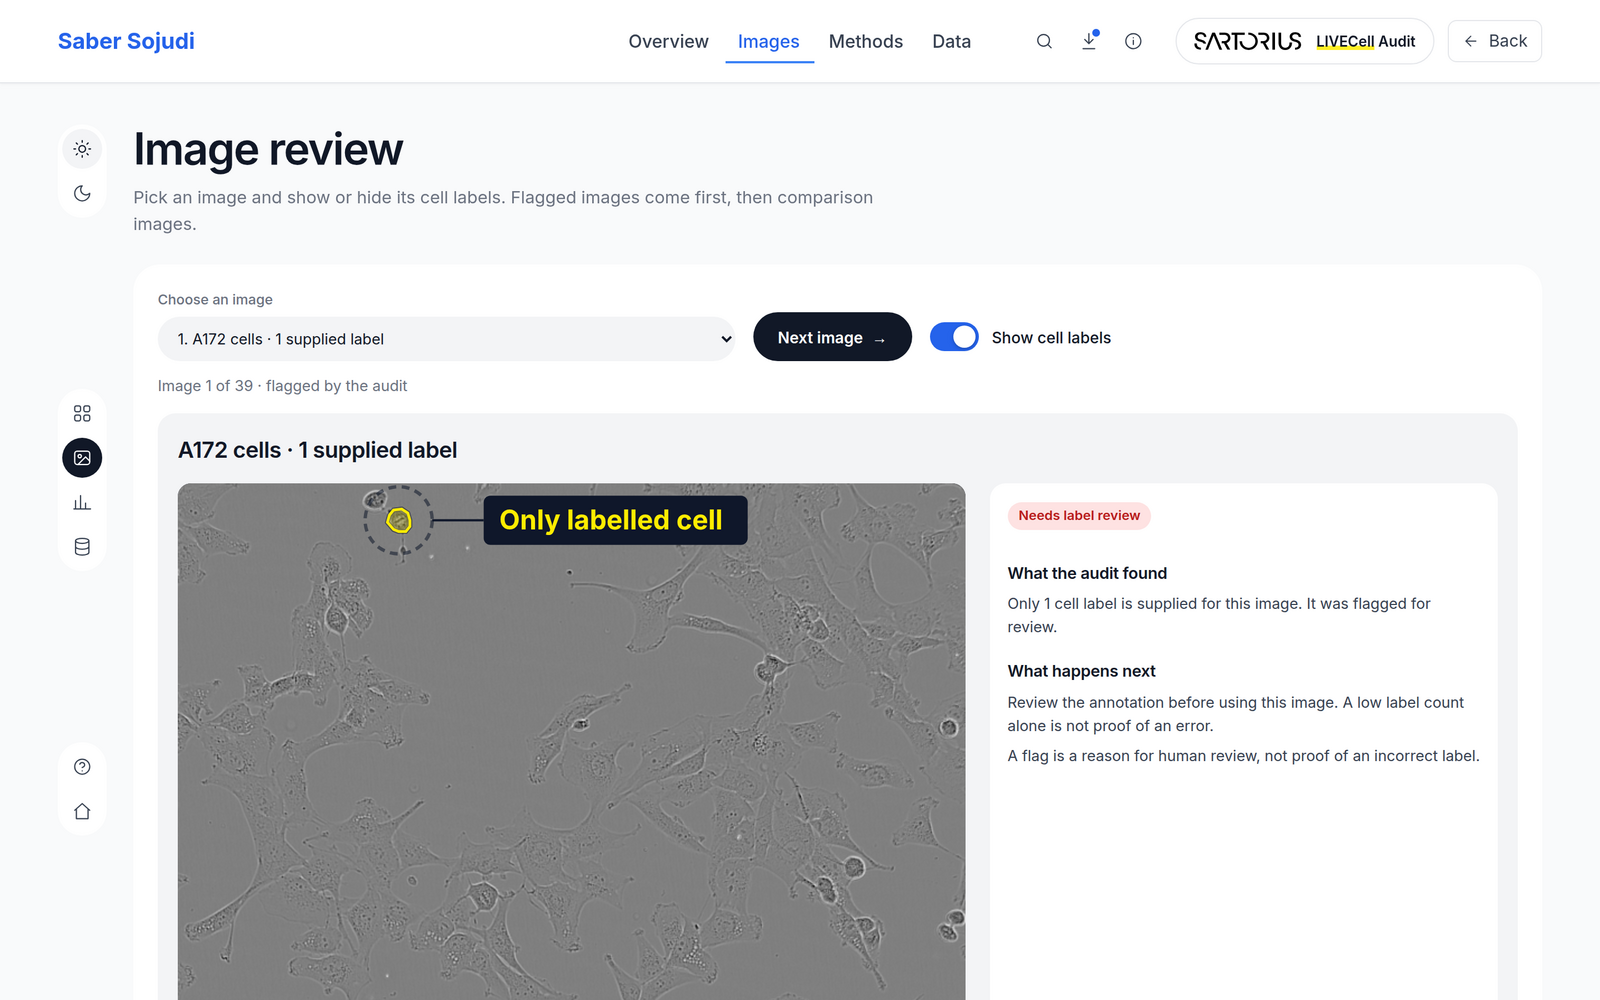
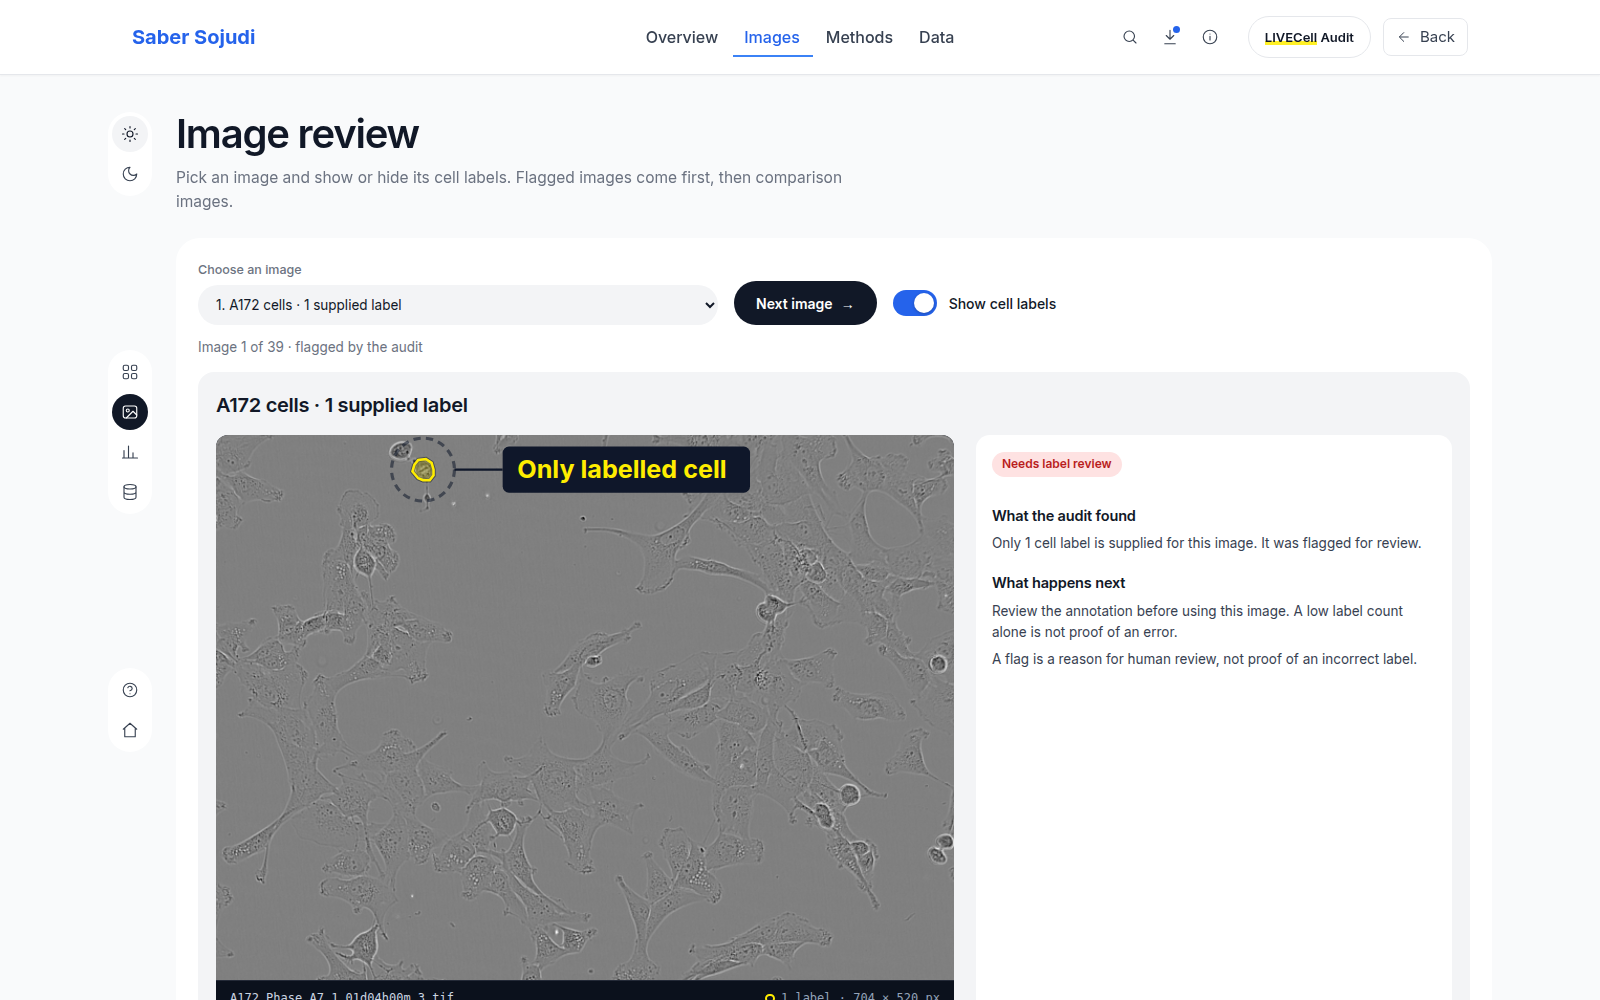
Present the project as an independent dataset audit
Remove the company logo from the dashboard header and its notice, refer
to LIVECell as a public dataset rather than a company's, drop the job
posting references from DESIGN.md, and retake the README screenshots.
Dataset attribution, the CC BY-NC notice and the upstream credits stay.

diff --git a/web/review/assets/review.css b/web/review/assets/review.css
@@ -1,6 +1,6 @@
 /* LIVECell review website — a pill dashboard in the colours of sabersojudi.com.
    Tokens and rules follow DESIGN.md. Blue (--accent, the portfolio's blue-600)
-   marks exactly one hero tile per section and small interface state; Sartorius
+   marks exactly one hero tile per section and small interface state; label
    yellow (--label) is reserved for supplied cell labels and their legend. */
 
 @font-face {
@@ -54,7 +54,7 @@
   --success-soft: #dcfce7;
   --danger: #b91c1c;
   --danger-soft: #fee2e2;
-  /* Sartorius yellow: supplied cell labels only */
+  /* label yellow: supplied cell labels only */
   --label: #ffed00;
   /* the microscope stage stays dark in both themes */
   --stage: #0b111c;
@@ -186,9 +186,6 @@ main { min-width: 0; }
 /* --- pills -------------------------------------------------------------- */
 .pill { background: var(--bg-card); border-radius: var(--r-pill); height: var(--topbar-h); display: flex; align-items: center; }
 .logo { padding: 8px 16px; gap: 14px; width: max-content; height: 42px; font-weight: 600; font-size: 13px; color: var(--ink); text-decoration: none; border: 1px solid var(--hairline); }
-.company-logo { display: block; width: 96px; height: auto; flex: none; }
-/* Keep the company logo on its approved white background in either appearance. */
-:root[data-theme="dark"] .logo { background: #fff; color: #111827; }
 .wordmark { white-space: nowrap; }
 .wordmark .highlight { box-shadow: inset 0 -0.3em 0 color-mix(in srgb, var(--label) 85%, transparent); }
 
@@ -623,7 +620,6 @@ dl.kv dd .unit { display: block; font-weight: 400; color: var(--ink-muted); font
   .grid { grid-template-columns: repeat(6, minmax(0, 1fr)); }
   .c4, .c5, .c6, .c7, .c8, .c12, .stack { grid-column: span 6; }
   .topbar-inner { grid-template-columns: auto minmax(0, 1fr) auto; gap: 16px; padding: 16px 24px; }
-  .logo .wordmark { display: none; }
   .nav { justify-self: center; max-width: 100%; min-width: 0; }
   .topbar .nav a { padding: 8px 10px; font-size: 15px; }
   .actions { display: none; }
@@ -638,7 +634,6 @@ dl.kv dd .unit { display: block; font-weight: 400; color: var(--ink-muted); font
   .portfolio-brand { font-size: 18px; }
   .topbar-right { gap: 8px; align-items: center; }
   .logo { padding: 8px 10px; height: 36px; }
-  .company-logo { width: 80px; }
   .portfolio-back { padding: 8px; }
   .portfolio-back span { display: none; }
   .topbar .nav { grid-row: 2; grid-column: 1 / -1; width: 100%; display: grid; grid-template-columns: repeat(4, minmax(0, 1fr)); }

diff --git a/web/review/index.html b/web/review/index.html
@@ -25,8 +25,7 @@
       <a class="icon-btn dot" href="#downloads" aria-label="Download the evidence" title="Downloads"><svg viewBox="0 0 24 24" aria-hidden="true"><path d="M12 3v12M7 10l5 5 5-5M5 21h14"/></svg></a>
       <a class="icon-btn" href="#technical" aria-label="Technical details and sources" title="Sources"><svg viewBox="0 0 24 24" aria-hidden="true"><circle cx="12" cy="12" r="9"/><path d="M12 8h.01M12 11v5"/></svg></a>
     </div>
-    <a href="#overview" class="pill logo" aria-label="Sartorius LIVECell Audit, overview" title="Independent project using Sartorius’ public LIVECell dataset">
-      <img class="company-logo" src="assets/sartorius-logo.svg" alt="Sartorius" width="96" height="20">
+    <a href="#overview" class="pill logo" aria-label="LIVECell Audit, overview" title="Independent project using the public LIVECell dataset">
       <span class="wordmark"><span class="highlight">LIVECell</span> Audit</span>
     </a>
     <a class="portfolio-back" href="https://sabersojudi.com/" title="Back to main page">
@@ -61,7 +60,7 @@
   <div class="page-head overview-intro" id="start">
     <div>
       <h1 class="reveal" id="page-title">Checking the data used to <span class="gradient-text">train AI</span></h1>
-      <p class="sub reveal">I built a Python tool that checks the images and cell labels in Sartorius’ public LIVECell dataset, then gives scientists a clear list of examples to review.</p>
+      <p class="sub reveal">I built a Python tool that checks the images and cell labels in the public LIVECell dataset, then gives scientists a clear list of examples to review.</p>
       <ul class="project-skills reveal" aria-label="Skills demonstrated in this project">
         <li title="Python command-line tools for the complete audit and release pipeline"><svg viewBox="0 0 24 24" aria-hidden="true"><path d="m4 5 6 7-6 7M13 19h7"/></svg>Python</li>
         <li title="pandas feature tables and cell-line summaries"><svg viewBox="0 0 24 24" aria-hidden="true"><rect x="3" y="4" width="18" height="16" rx="2"/><path d="M3 10h18M9 4v16M15 10v10"/></svg>pandas</li>

diff --git a/web/review/assets/review.js b/web/review/assets/review.js
@@ -361,7 +361,7 @@
     'The annotation record id is ' + SITE.guided.sparse_annotation.annotation_id + ' and its polygon area is ' +
       dec(SITE.guided.sparse_annotation.area, 2) + ' pixels^2; that single polygon is what the overlay draws.',
     'The upstream reporter (' + SITE.methods.knownCase.upstream_reporter + ', issue #21) listed ' +
-      n(audit.known_sparse_cases.total) + ' images using a threshold of ten segments, and a Sartorius ' +
+      n(audit.known_sparse_cases.total) + ' images using a threshold of ten segments, and a dataset ' +
       'maintainer replied that they had slipped through quality control. All ' +
       n(audit.known_sparse_cases.recovered) + ' are recovered in this snapshot by the same rule ' +
       '\u201cat most ' + n(c.low_count_threshold) + ' annotations\u201d, so they are regression examples, ' +

diff --git a/tools/build_review_site.py b/tools/build_review_site.py
@@ -1427,9 +1427,6 @@ def main(argv=None):
         "            Sjögren, Sartorius)\n"
         "  issue #14, alternate annotation versions: explained by Christoffer\n"
         "            Edlund (Sartorius)\n\n"
-        "Sartorius logo: Sartorius AG; used unmodified to identify the dataset company.\n"
-        "Source: https://commons.wikimedia.org/wiki/File:Sartorius-Logo-2020.svg\n"
-        "The company name and logo remain trademarks of their respective owner.\n\n"
         "Typeface: Inter, copyright 2016 The Inter Project Authors\n"
         "(https://github.com/rsms/inter), licensed under the SIL Open Font License\n"
         "1.1 (assets/fonts/OFL-inter.txt); the latin variable subsets (as packaged\n"

diff --git a/tools/release_tools.py b/tools/release_tools.py
@@ -139,7 +139,6 @@ DOC_REDACTIONS = (
 #: hand-written shell of the review website (HTML + CSS + JS).
 SITE_SHELL_FILES = (
     "index.html",
-    os.path.join("assets", "sartorius-logo.svg"),
     os.path.join("assets", "review.css"),
     os.path.join("assets", "review.js"),
     os.path.join("assets", "fonts", "inter-latin-wght-normal.woff2"),

diff --git a/DESIGN.md b/DESIGN.md
@@ -5,7 +5,7 @@ These rules govern the review website in `web/review/` (described in
 
 ## Audience and purpose
 
-The first reader is a recruiter without a microscopy or machine-learning background; a technical reviewer must also be able to inspect the evidence.
+The first reader is a non-specialist without a microscopy or machine-learning background; a technical reviewer must also be able to inspect the evidence.
 
 Information priority:
 
@@ -17,7 +17,7 @@ The overview combines the introduction and a complete, uncropped microscope prev
 
 ## Visual direction
 
-The outer page follows the portfolio project template in `sabers13/sabers13.github.io/hicp-eurostat.html`: a fixed, full-width translucent white header, blue Saber Sojudi home link, gray navigation with a blue selection underline, Back link, and a pale gray background without an enclosing rounded shell. The company pill retains the LIVECell Audit tag and the dataset wordmark. The interior retains the dashboard cards, split icon rail, gradient hero tile, hatched bars, blur-in entrance and count-up figures. Tokens live in `web/review/assets/review.css` (`:root` and an explicit `[data-theme="dark"]` set). Every page opening starts in light mode, including on a dark OS or after a previous dark selection; appearance buttons switch only the current visit.
+The outer page follows the portfolio project template in `sabers13/sabers13.github.io/hicp-eurostat.html`: a fixed, full-width translucent white header, blue Saber Sojudi home link, gray navigation with a blue selection underline, Back link, and a pale gray background without an enclosing rounded shell. The project pill shows the LIVECell Audit wordmark. The interior retains the dashboard cards, split icon rail, gradient hero tile, hatched bars, blur-in entrance and count-up figures. Tokens live in `web/review/assets/review.css` (`:root` and an explicit `[data-theme="dark"]` set). Every page opening starts in light mode, including on a dark OS or after a previous dark selection; appearance buttons switch only the current visit.
 
 | Role | Token | Light | Dark | Notes |
 | --- | --- | --- | --- | --- |
@@ -27,7 +27,7 @@ The outer page follows the portfolio project template in `sabers13/sabers13.gith
 | Hero gradient | `--accent-gradient` | blue-600 → blue-700 → violet-700 | same | white text is 5.2:1 or more on every stop; the soft highlight sits behind the tile icon, not text; the violet end echoes the portfolio's purple gradient text |
 | Soft chips | `--accent-soft` / `--on-accent-soft` | `#DBEAFE` / `#1E40AF` | translucent blue / `#BFDBFE` | the portfolio's blue-100 / blue-800 chip |
 | Status chips | `--success*`, `--danger*` | green-700 on green-100, red-700 on red-100 | light text on translucent tint | always with text, never colour alone |
-| Cell label (signal) | `--label` | `#FFED00` | `#FFED00` | Sartorius yellow; 15.6:1 on the stage |
+| Cell label (signal) | `--label` | `#FFED00` | `#FFED00` | label yellow; 15.6:1 on the stage |
 | Specimen stage | `--stage` | `#0B111C` | `#05080F` | readout text `#CBD5E1` |
 
 - **One colour, one meaning.** Yellow marks supplied cell labels and the LIVECell tag's highlighter underline. Blue is the portfolio accent and header navigation underline; primary buttons and the selected rail icon are ink (white in dark mode).

diff --git a/README.md b/README.md
@@ -2,7 +2,7 @@
 
 # LIVECell Audit
 
-**A reproducible data-quality audit of Sartorius' public LIVECell cell-image dataset, with a review dashboard that explains the results in plain language.**
+**A reproducible data-quality audit of the public LIVECell cell-image dataset, with a review dashboard that explains the results in plain language.**
 
 [**▶ Open the live dashboard**](https://sabersojudi.com/livecell-audit/) · [Findings](docs/02_upstream_bugs_and_findings.md) · [Method and model card](docs/09_model_card.md) · [Release process](docs/12_release.md)
 
@@ -22,7 +22,7 @@
 
 To teach an AI model to recognise cells, scientists outline the cells in microscope images by hand. If those outlines are missing, duplicated or in the wrong group, the model learns from bad examples and its scores look better than they really are.
 
-LIVECell is Sartorius' public dataset of 5,239 phase-contrast images and over 1.6 million hand-drawn cell outlines (Edlund et al., *Nature Methods* 2021). This project checks those labels before they are used, ranks the images most worth a second look, and shows each result next to the image it comes from.
+LIVECell is a public dataset of 5,239 phase-contrast images and over 1.6 million hand-drawn cell outlines (Edlund et al., *Nature Methods* 2021). This project checks those labels before they are used, ranks the images most worth a second look, and shows each result next to the image it comes from.
 
 ## What the audit found
 
